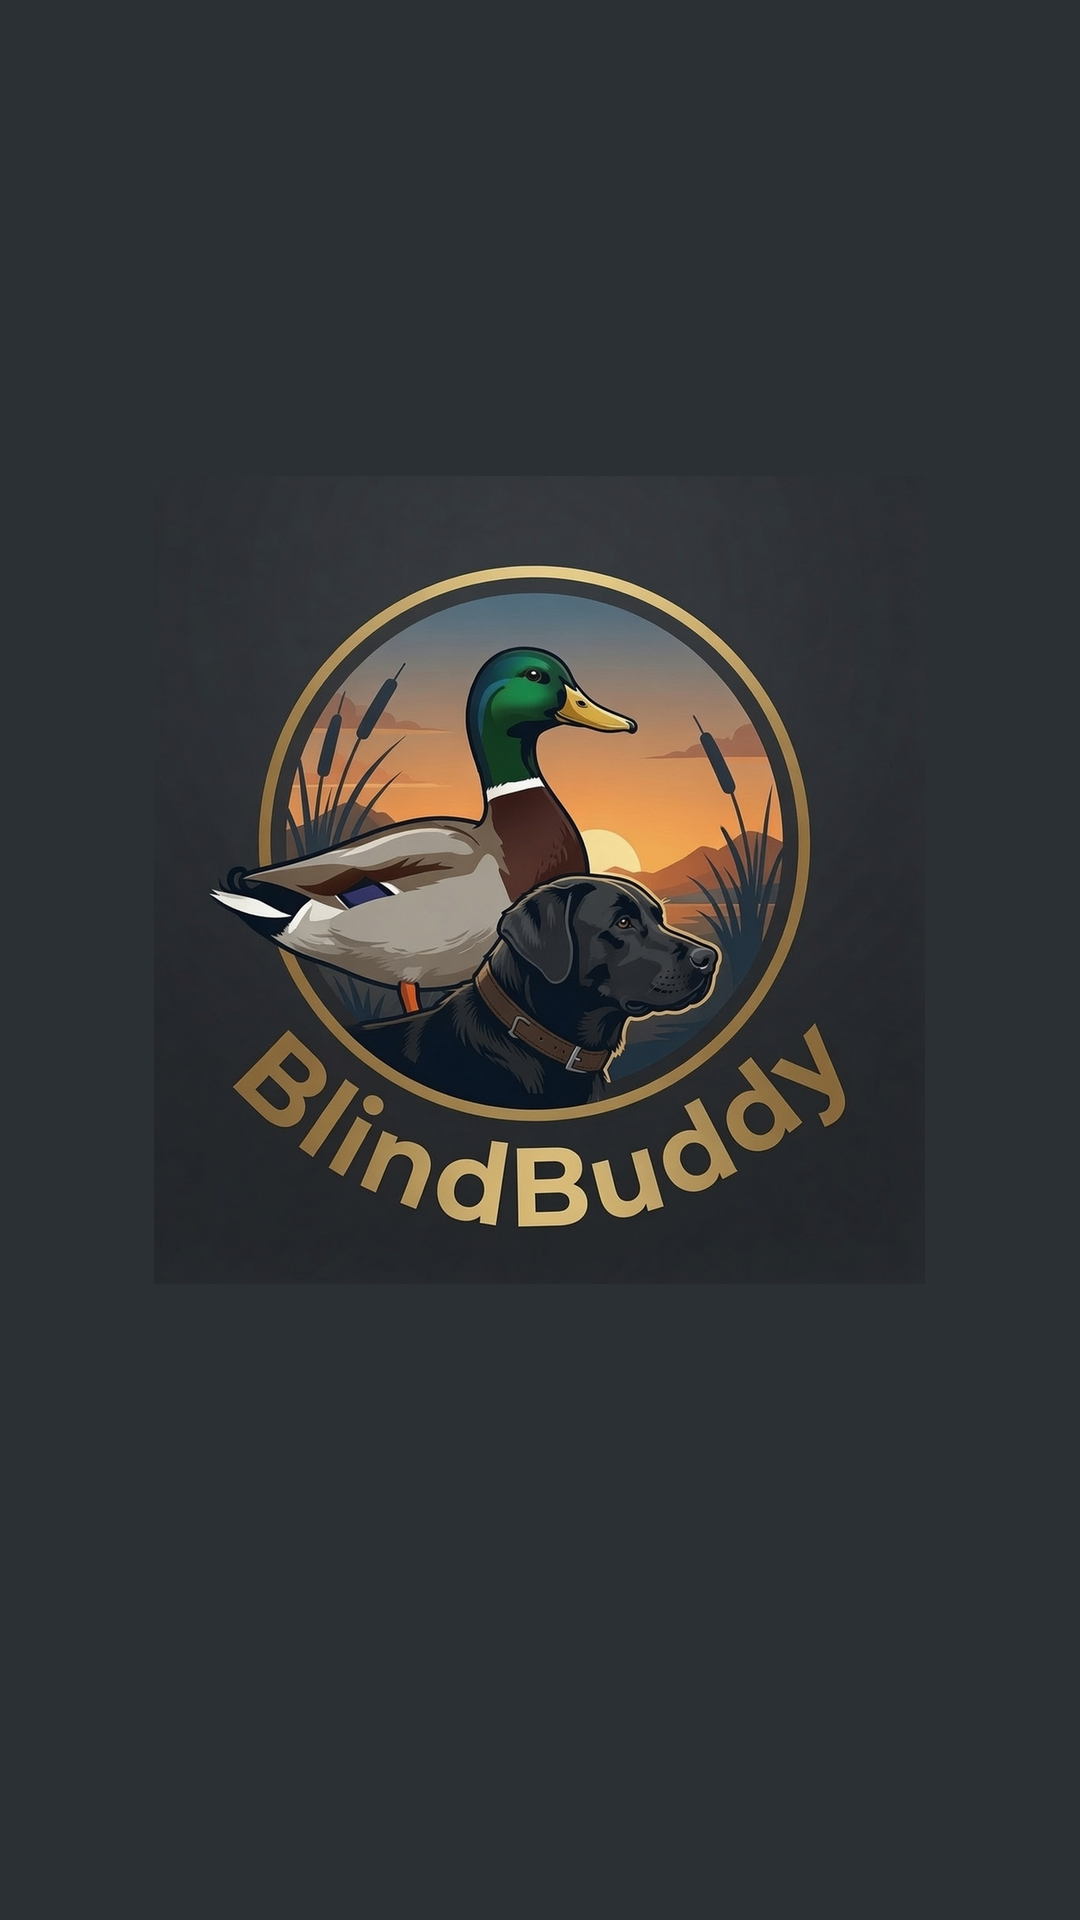
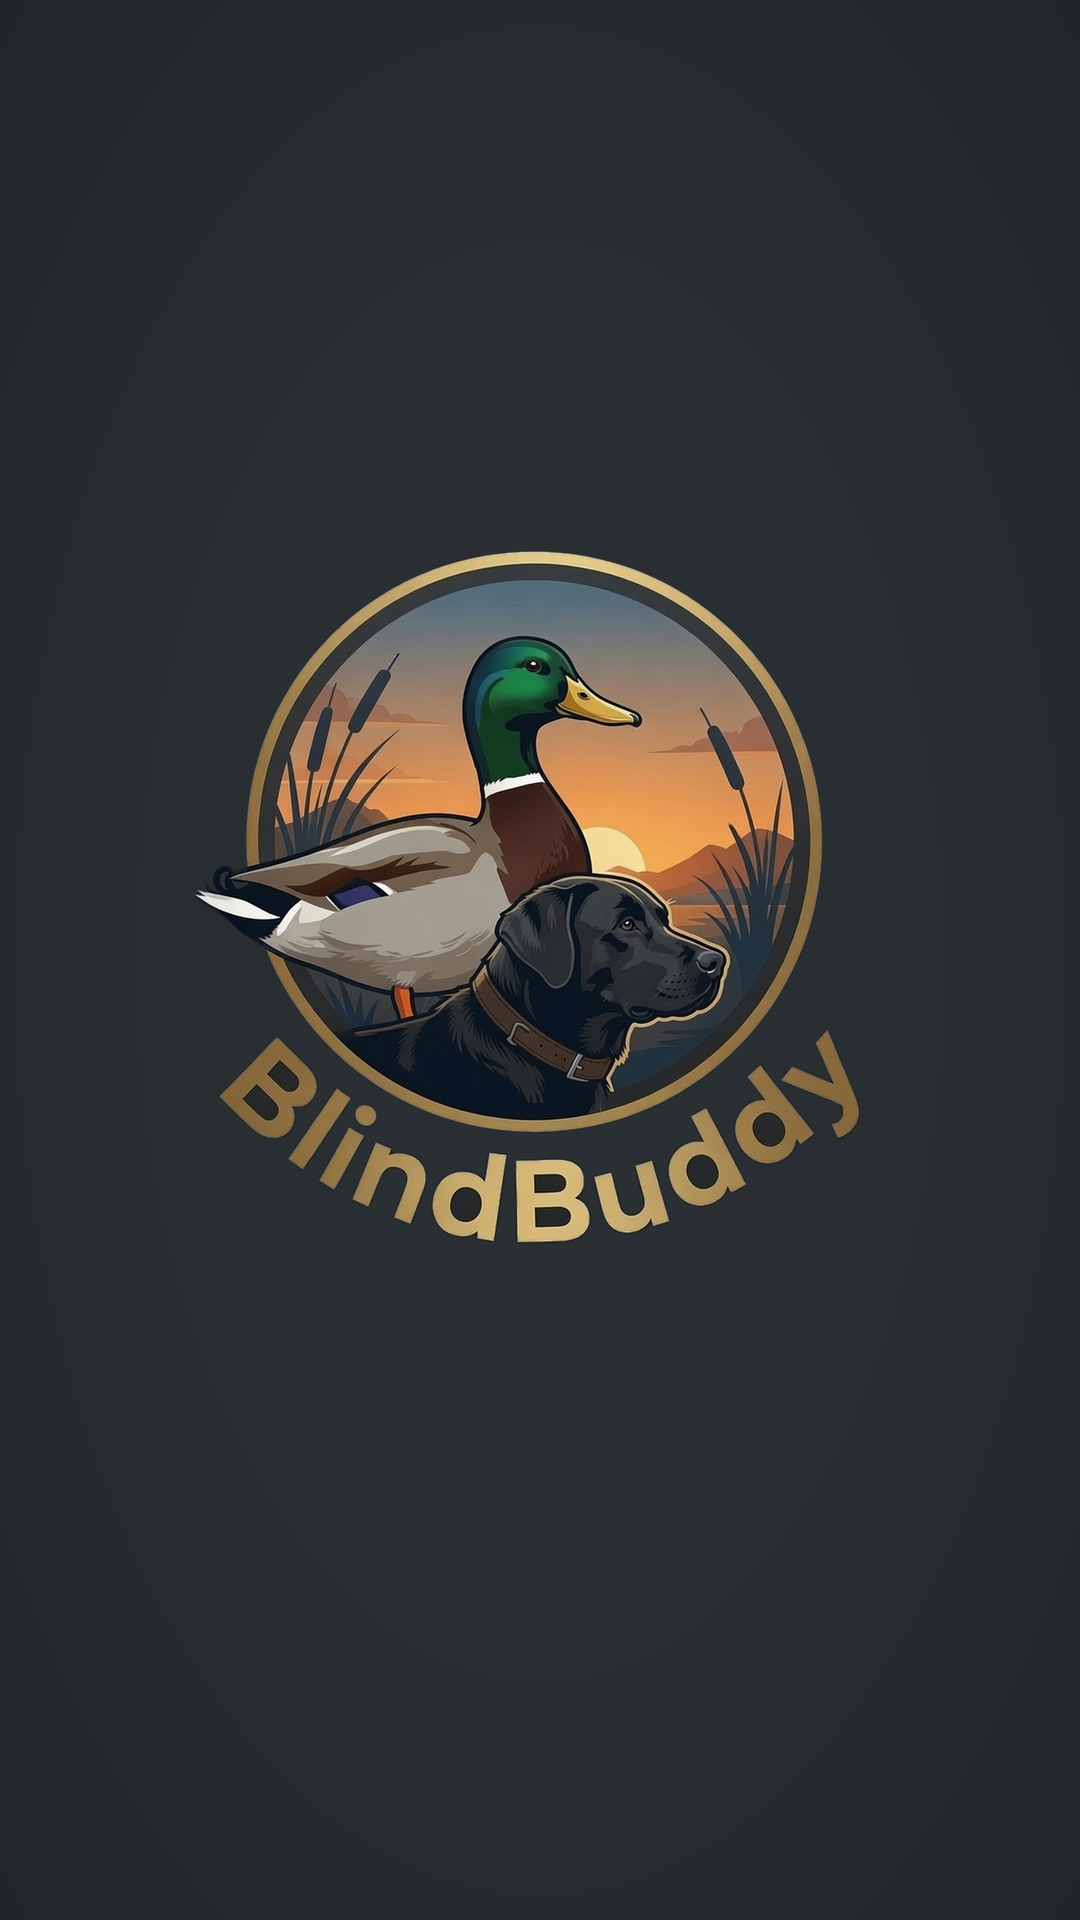
videocut v1.1: seamless end card, music envelope composed from EDL, cuts on real beats, concat path fix

Changed region(s): [[0.1833, 0.2812, 0.7944, 0.6562]]

diff --git a/skills/videocut/scripts/make_endcard.py b/skills/videocut/scripts/make_endcard.py
@@ -1,16 +1,21 @@
 #!/usr/bin/env python3
 """One-time setup: build assets/endcard.png (1080x1920) from a logo image.
 
-Background is sampled from the logo's own corner so the card reads as a
-seamless extension of the icon. Optional gold tagline under the mark.
+The logo's flat background plate is removed by flood-fill from the image
+borders (color-distance mask, connected to the border only, so dark artwork
+INSIDE the mark survives). The transparent mark then composites onto a full
+canvas painted in that same background color with a soft vignette, so the
+card reads as one surface, no visible plate seam.
 
 Usage: make_endcard.py <logo.png> [--tagline "text"] [--out path]
-Run with the videocut venv python (needs Pillow).
+Run with the videocut venv python (needs Pillow, numpy, scipy).
 """
 import argparse
 from pathlib import Path
 
-from PIL import Image, ImageDraw, ImageFont
+import numpy as np
+from PIL import Image, ImageDraw, ImageFilter, ImageFont
+from scipy import ndimage
 
 W, H = 1080, 1920
 GOLD = (201, 160, 76)
@@ -27,6 +32,32 @@ def load_font(size):
     return ImageFont.load_default()
 
 
+def cut_out(logo, tol=48):
+    """Return (RGBA logo with background removed, background RGB color)."""
+    a = np.asarray(logo.convert("RGB"), dtype=float)
+    border = np.concatenate([a[0], a[-1], a[:, 0], a[:, -1]])
+    bg = np.median(border, axis=0)
+    near_bg = np.linalg.norm(a - bg, axis=2) < tol
+    labels, _ = ndimage.label(near_bg)
+    edge_labels = set(labels[0]) | set(labels[-1]) | set(labels[:, 0]) | set(labels[:, -1])
+    edge_labels.discard(0)
+    is_plate = np.isin(labels, list(edge_labels))
+    alpha = np.where(is_plate, 0, 255).astype(np.uint8)
+    alpha = np.asarray(
+        Image.fromarray(alpha).filter(ImageFilter.GaussianBlur(1.2)))
+    out = np.dstack([a.astype(np.uint8), alpha])
+    return Image.fromarray(out, "RGBA"), tuple(int(c) for c in bg)
+
+
+def vignette_canvas(bg, strength=0.22):
+    """Full-frame canvas in the logo's own bg color, softly darker at edges."""
+    yy, xx = np.mgrid[0:H, 0:W]
+    d = np.sqrt(((xx - W / 2) / (W / 2)) ** 2 + ((yy - H / 2) / (H / 2)) ** 2)
+    fall = 1.0 - strength * np.clip(d / d.max(), 0, 1) ** 2
+    arr = (np.array(bg)[None, None, :] * fall[:, :, None]).astype(np.uint8)
+    return Image.fromarray(arr, "RGB")
+
+
 def main():
     ap = argparse.ArgumentParser()
     ap.add_argument("logo")
@@ -34,14 +65,14 @@ def main():
     ap.add_argument("--out", default=str(Path(__file__).parent.parent / "assets" / "endcard.png"))
     args = ap.parse_args()
 
-    logo = Image.open(args.logo).convert("RGB")
-    bg = logo.getpixel((5, 5))
-    card = Image.new("RGB", (W, H), bg)
+    logo = Image.open(args.logo)
+    mark, bg = cut_out(logo)
+    card = vignette_canvas(bg)
 
-    lw = 880
-    lh = round(logo.height * lw / logo.width)
-    logo = logo.resize((lw, lh), Image.LANCZOS)
-    card.paste(logo, ((W - lw) // 2, (H - lh) // 2 - 80))
+    lw = 920
+    lh = round(mark.height * lw / mark.width)
+    mark = mark.resize((lw, lh), Image.LANCZOS)
+    card.paste(mark, ((W - lw) // 2, (H - lh) // 2 - 80), mark)
 
     if args.tagline:
         d = ImageDraw.Draw(card)
@@ -51,7 +82,7 @@ def main():
 
     Path(args.out).parent.mkdir(parents=True, exist_ok=True)
     card.save(args.out)
-    print(f"end card -> {args.out} (bg {bg})")
+    print(f"end card -> {args.out} (plate color {bg})")
 
 
 if __name__ == "__main__":

diff --git a/skills/videocut/scripts/cut.py b/skills/videocut/scripts/cut.py
@@ -83,23 +83,49 @@ def main():
         if slots[i] == 2:
             slots[i] = 4
 
-    # build shots
+    # ---- walk the track's ACTUAL beat times (no averaged grid: tempo drift
+    # would slide cuts off the music) ----
+    bt = beats["beats"]
+    need = sum(slots)
+
+    def nearest_idx(t):
+        return min(range(len(bt)), key=lambda i: abs(bt[i] - t))
+
+    gs_idx = nearest_idx(beats["grid_start"])
+    # beat offset of the money shot inside the reel
+    money_beat_off = None
+    acc = 0
+    for (kind, cid), nb in zip(order, slots):
+        if kind == "shot" and cid == money:
+            money_beat_off = acc
+            break
+        acc += nb
+
+    start_idx, reason = gs_idx, "grid_start"
+    if money_beat_off is not None and beats["drop"] > 0:
+        cand = nearest_idx(beats["drop"]) - money_beat_off
+        if cand >= 0 and cand + need < len(bt):
+            start_idx, reason = cand, "drop-aligned to money shot"
+    if start_idx + need >= len(bt):
+        start_idx, reason = 0, "track short: grid from first beat"
+    if need >= len(bt):
+        die(f"track has {len(bt)} beats, reel needs {need}; pick a longer track")
+
+    # build shots on real beat boundaries
     shots = []
     t = 0.0
-    money_start_in_timeline = None
+    b = start_idx
     for (kind, cid), nb in zip(order, slots):
         c = cands[cid]
         clip = clips.get(c["clip"])
         if clip is None:
             die(f"candidate {cid} references unknown clip {c['clip']}")
-        slot_dur = nb * bi
+        slot_dur = bt[b + nb] - bt[b]
         ramp = kind == "shot" and cid == money and c["ramp_ok"]
         speed = RAMP_SPEED if ramp else 1.0
         span = slot_dur * speed  # source seconds consumed
         mid = (c["t_start"] + c["t_end"]) / 2
         src_in = max(0.0, min(mid - span / 2, clip["duration"] - span))
-        if kind == "shot" and cid == money:
-            money_start_in_timeline = t
         shots.append({
             "id": cid,
             "kind": kind,
@@ -116,20 +142,13 @@ def main():
             "t_timeline": round(t, 3),
         })
         t += slot_dur
+        b += nb
 
     reel_dur = t + ENDCARD_SECONDS
-
-    # music offset: put the drop under the money shot when the track can cover it
-    offset = beats["grid_start"]
-    reason = "grid_start"
-    if money_start_in_timeline is not None and beats["drop"] > 0:
-        cand_off = beats["drop"] - money_start_in_timeline
-        if cand_off >= 0 and cand_off + reel_dur <= beats["duration"]:
-            offset, reason = cand_off, "drop-aligned to money shot"
-    if offset + reel_dur > beats["duration"]:
-        offset, reason = 0.0, "track shorter than grid_start allows"
-    if reel_dur > beats["duration"]:
-        die(f"track ({beats['duration']}s) shorter than reel ({reel_dur:.1f}s); pick a longer track")
+    offset = bt[start_idx]
+    if reel_dur > beats["duration"] - offset:
+        die(f"track ({beats['duration']}s) can't cover reel ({reel_dur:.1f}s) "
+            f"from offset {offset:.1f}s; pick a longer track")
 
     edl = {
         "shots": shots,

diff --git a/skills/videocut/scripts/render.py b/skills/videocut/scripts/render.py
@@ -79,7 +79,9 @@ def endcard_mezz(card, seconds, mezz_dir, proxy):
 
 def concat(parts, out, mezz_dir):
     lst = mezz_dir / "concat.txt"
-    lst.write_text("".join(f"file '{p}'\n" for p in parts))
+    # absolute paths: the concat demuxer resolves relative entries against
+    # the list file's own directory, not the cwd
+    lst.write_text("".join(f"file '{Path(p).resolve()}'\n" for p in parts))
     run([FFMPEG, "-y", "-v", "error", "-f", "concat", "-safe", "0",
          "-i", str(lst), "-c", "copy", str(out)])
     return out
@@ -92,6 +94,22 @@ def duck_expr(shots):
         return None
     enable = "+".join(f"between(t,{a:.3f},{b:.3f})" for a, b in ranges)
     return f"volume=volume={DUCK_DB}dB:enable='{enable}'"
+
+
+def music_chain(shots, reel):
+    """Volume envelope composed from the EDL, not a blanket bed:
+    low under the cold-open tease -> full slam on the first build cut,
+    dips wherever natural audio is hot (impacts), fades under the end card."""
+    chain = f"atrim=0:{reel},asetpts=PTS-STARTPTS"
+    if shots and shots[0]["kind"] == "tease":
+        chain += f",volume=0.35:enable='between(t,0,{shots[0]['dur']:.3f})'"
+    hot = [(s["t_timeline"], s["t_timeline"] + s["dur"])
+           for s in shots if s["audio"] == "hot"]
+    if hot:
+        enable = "+".join(f"between(t,{a:.3f},{b:.3f})" for a, b in hot)
+        chain += f",volume=0.5:enable='{enable}'"
+    chain += f",afade=t=out:st={max(0, reel - 1.5)}:d=1.5"
+    return chain
 
 
 def main():
@@ -133,7 +151,7 @@ def main():
              "-ss", str(off), "-i", music,
              "-filter_complex",
              f"[0:a]{nat}[n];"
-             f"[1:a]atrim=0:{reel},afade=t=out:st={max(0, reel - 1.5)}:d=1.5[m];"
+             f"[1:a]{music_chain(edl['shots'], reel)}[m];"
              f"[n][m]amix=inputs=2:duration=first:normalize=0,"
              f"loudnorm=I={TARGET_LUFS}:TP=-1[a]",
              "-map", "0:v:0", "-map", "[a]",
@@ -146,7 +164,7 @@ def main():
          "-ss", str(off), "-i", music,
          "-filter_complex",
          f"[0:a]{nat}[n];"
-         f"[1:a]atrim=0:{reel},afade=t=out:st={max(0, reel - 1.5)}:d=1.5[m];"
+         f"[1:a]{music_chain(edl['shots'], reel)}[m];"
          f"[n][m]amix=inputs=2:duration=first:normalize=0,"
          f"loudnorm=I={TARGET_LUFS}:TP=-1[a]",
          "-map", "0:v:0", "-map", "[a]",
